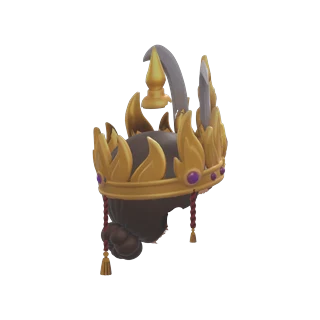
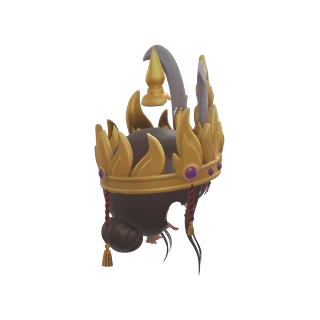
feat(art): 모자 아래 여자 머리를 앞머리 있는 쪽머리로 (#341)
- 올백 쪽머리는 이마가 다 드러나 정면에서 남자처럼 보여서, 시스루 앞머리와 얼굴 옆 머리를 넣은 쪽머리(i)로 다시 만듦
- split_head.py cut=: 티셔츠 깃 안쪽의 어두운 띠를 머리에서 뺌
- split_head.py brows=: 모델 눈썹이 몸 눈썹 위에 겹치지 않게 두개골 위 눈썹 면을 뺌
- 옷 파일 캐시 번호 rig=13

Changed region(s): [[0.2812, 0.1562, 0.7188, 0.875], [0.5312, 0.1875, 0.5625, 0.2188], [0.4375, 0.1875, 0.4688, 0.2188]]

diff --git a/frontend/src/world/art/outfitSources.ts b/frontend/src/world/art/outfitSources.ts
@@ -3,7 +3,7 @@ import type { GLTF } from 'three/addons/loaders/GLTFLoader.js'
 import { ParkAssetLoader } from './assetLoader'
 
 /** Outfit files are fetched when someone first wears one, not with the park: most visitors never need them. */
-export const outfitUrl = (name: string) => `/art/characters/outfits/${name}.glb?rig=12`
+export const outfitUrl = (name: string) => `/art/characters/outfits/${name}.glb?rig=13`
 
 const loaded = new Map<string, GLTF>()
 const requested = new Set<string>()

diff --git a/tools/character/split_head.py b/tools/character/split_head.py
@@ -1,5 +1,5 @@
 """Split a Tripo head part (hair and face skin came out as one part) by texel colour:
--- <parts.glb> <out.glb> part=1 [hair=90] [face=91] [dark=0.5] [smooth=4]
+-- <parts.glb> <out.glb> part=1 [hair=90] [face=91] [dark=0.5] [smooth=4] [min_island=300] [cut=x,y,z] [brows=zlo,zhi,xmax]
 Each face is hair when its mean texel brightness is under `dark`; then `smooth` passes of neighbour majority vote
 clean the edge. The hair becomes tripo_part_<hair>, the skin tripo_part_<face>; every other part is kept."""
 import bpy, bmesh, sys, os
@@ -24,6 +24,34 @@ nb = [[g.index for e in f.edges for g in e.link_faces if g is not f] for f in bm
 for _ in range(SMOOTH):
     hair = np.array([(hair[n].sum() * 2 > len(n)) if n and hair[n].sum() * 2 != len(n) else hair[i] for i, n in enumerate(nb)])
 bm.free()
+# cut=x,y,z: hair faces with |x| < x, y < y and z < z are not hair (the shirt collar's dark inside, when Tripo gave the
+# hair, the shirt and the skin as one part)
+if opt.get('cut'):
+    cx, cy, cz = (float(v) for v in opt['cut'].split(','))
+    mw = o.matrix_world
+    for i, p in enumerate(o.data.polygons):
+        c = mw @ p.center
+        if abs(c.x) < cx and c.y < cy and c.z < cz: hair[i] = False
+# brows=zlo,zhi,xmax: the model's own eyebrows are painted on the same surface as the forehead and came out as hair,
+# over the body's own brows. In that band, a front hair face with nothing behind it within 2 cm (looking into the head)
+# lies on the skull: a brow, dropped. The fringe hangs a few millimetres before the forehead, so it has.
+if opt.get('brows'):
+    from mathutils import Vector
+    from mathutils.bvhtree import BVHTree
+    zlo, zhi, xm = (float(v) for v in opt['brows'].split(','))
+    dg = bpy.context.evaluated_depsgraph_get(); allb = bmesh.new()
+    for x in bpy.data.objects:
+        if x.type == 'MESH':
+            t = bmesh.new(); t.from_mesh(x.data); t.transform(x.matrix_world)
+            tmp = bpy.data.meshes.new('t'); t.to_mesh(tmp); t.free(); allb.from_mesh(tmp); bpy.data.meshes.remove(tmp)
+    tree = BVHTree.FromBMesh(allb); allb.free()
+    mw = o.matrix_world; nbrow = 0
+    for i, p in enumerate(o.data.polygons):
+        if not hair[i]: continue
+        c = mw @ p.center; n = (mw.to_3x3() @ p.normal).normalized()
+        if not (zlo < c.z < zhi and abs(c.x) < xm and n.y < -0.3): continue
+        if tree.ray_cast(c + Vector((0, 0.0005, 0)), Vector((0, 1, 0)), 0.02)[0] is None: hair[i] = False; nbrow += 1
+    print('SPLIT', nbrow, 'brow faces dropped')
 print('SPLIT', PART, int(hair.sum()), 'hair faces,', int((~hair).sum()), 'skin faces')
 for name, keep in ((HAIR, True), (FACE, False)):
     c = o.copy(); c.data = o.data.copy(); bpy.context.scene.collection.objects.link(c)

diff --git a/docs/character-outfits.md b/docs/character-outfits.md
@@ -15,7 +15,7 @@
   - 그래서 새 옷은 **자기 한 벌을 입었을 때만** 맞으면 된다. 다른 상의·하의·신발과 섞어 입는 경우는 생기지 않는다.
   - 부위별로 섞어 입게 했을 때는 바지가 다른 상의를 뚫거나, 바지 없이 신발만 신으면 발목이 비는 문제가 옷마다 생겼다.
 - **캐릭터별 조각.** `item__HAIR__h__for_girl`처럼 `__for_man`/`__for_girl`이 붙은 조각은 그 캐릭터에게만 보인다(④-2).
-- **의상 문자.** 기준 빌드 안의 의상은 문자로 구분한다. 이미 쓴 문자는 `a`~`i`(남자 기본 `b`·`d`, 여자 머리 `e`, 장군 `g`, 갓·도포 `h`, 모자 아래 여자 쪽머리 `i`)이고, 새 옷은 `j`부터 쓴다.
+- **의상 문자.** 기준 빌드 안의 의상은 문자로 구분한다. 이미 쓴 문자는 `a`~`i`(남자 기본 `b`·`d`, 여자 머리 `e`, 장군 `g`, 갓·도포 `h`, 모자 아래 여자 앞머리 쪽머리 `i`)이고, 새 옷은 `j`부터 쓴다.
 - **몸 조각.** 의상에 가려지는 몸은 `body__TOPd_BOTTOMg`처럼 가리는 의상 이름이 붙은 조각으로 잘려 있다. 이 조각은 그 의상 중 하나라도 입으면 숨는다. 의상 조각 `item__BOTTOM__d__under_TOPb`는 `TOP b`를 함께 입으면 숨는다.
 - **게임 파일**(`frontend/public/art/characters/`):
   - `man.glb`, `girl.glb`: 공용 몸의 모든 조각 + 그 캐릭터의 기본 옷.
@@ -133,15 +133,17 @@
 
 - 조각 이름은 `item__HAIR__<문자>__for_man` / `item__HAIR__<문자>__for_girl`이다. 게임은 그 캐릭터에만 그린다(`characterLook.ts`).
 - 남자 머리카락은 기본 머리 `b`를 복사해 쓴다. Tripo 머리보다 깔끔하고 기본 모습과 머릿결이 같다.
-- 여자는 기본 머리 `e`(포니테일)를 쓰면 모자 아래에서 어색해서, 모자용 머리 `i`(가르마를 탄 낮은 쪽머리)를 따로 만들었다.
-  1. 공용 몸 T자 시트(`pose_sheet.py pose=t`)를 Gemini에 넣고, 몸·얼굴·배치는 그대로 두고 머리만 그리게 했다: 가운데 가르마, 머리에 붙게 빗어 넘긴 머리, 목덜미의 작은 쪽. 모자·장신구는 넣지 않는다.
+- 여자는 기본 머리 `e`(포니테일)를 쓰면 모자 아래에서 어색해서, 모자용 머리 `i`(시스루 앞머리, 얼굴 옆으로 내린 가는 머리, 낮은 쪽머리)를 따로 만들었다. 처음에는 가르마를 탄 올백 쪽머리로 했는데, 이마가 다 드러나 정면에서 남자처럼 보였다(user).
+  1. 공용 몸 T자 시트(`pose_sheet.py pose=t`)를 Gemini에 넣고, 몸·얼굴·배치는 그대로 두고 머리만 그리게 했다: 눈썹이 보이는 얇은 앞머리, 귀 앞으로 턱까지 내린 가는 머리, 나머지는 목덜미의 둥근 쪽. 정수리와 뒤는 머리에 붙게 해서 모자가 얹히게 한다. 모자·장신구는 넣지 않는다.
   2. Tripo 여러 면(정면 / Left = 오른쪽 아래 / Right = 오른쪽 위 / 뒤), Generate in Parts, Balanced, 4K 텍스처.
-  3. Tripo가 머리카락과 얼굴 피부를 한 부품으로 냈다. `split_head.py`가 텍스처 밝기로 나눈다(머리 `tripo_part_90`, 얼굴 `tripo_part_91`). 눈가의 어두운 선이 머리로 잡혀서, 2000면보다 작은 머리 조각은 지운다.
-  4. 머리만 기준 빌드에 맞춘다. 얼굴(`head_fit`)로 맞추니 크기 1.002배로 몸과 거의 같았다.
+  3. Tripo가 머리카락을 피부·티셔츠와 한 부품(`tripo_part_0`)으로 냈다. `split_head.py`가 텍스처 밝기로 나눈다(머리 `tripo_part_90`).
+     - `cut=0.1,0.0,0.645`: 목 앞의 티셔츠 깃 안쪽(어두운 띠)은 머리가 아니다.
+     - `brows=0.775,0.825,0.13`: 모델의 눈썹이 이마와 같은 면에 그려져 머리로 잡혔고, 몸의 눈썹 위에 겹쳐 두꺼워 보였다. 그 높이에서 뒤(머리 안쪽) 2 cm 안에 아무것도 없는 앞쪽 면은 두개골 위의 눈썹이라 지운다. 앞머리는 이마 몇 mm 앞에 떠 있어서 남는다. 띠를 넓히면(0.74~0.88) 앞머리 밑의 두피까지 지워져 앞머리 사이로 피부가 보였다.
+  4. 머리만 기준 빌드에 맞춘다(쪽 `tripo_part_7`, 턱 아래로 내린 머리끝 `11`·`12`). 얼굴 부품(`tripo_part_1`)으로 맞추니 크기 0.984배였다.
 
 ```bash
-"$B" -b --python tools/character/split_head.py -- girl_bun_parts.glb girl_bun_split.glb part=1 min_island=2000
-"$B" -b --python tools/character/fit_outfit.py -- shared_layers_h.glb girl_bun_split.glb shared_layers_hi.glb set=i s=1.065 head_fit=91 "map=HAIR:90,3"
+"$B" -b --python tools/character/split_head.py -- girl_bangs_parts.glb girl_bangs_split.glb part=0 min_island=300 cut=0.1,0.0,0.645 brows=0.775,0.825,0.13
+"$B" -b --python tools/character/fit_outfit.py -- shared_layers_h.glb girl_bangs_split.glb shared_layers_hi.glb set=i s=1.065 head_fit=1 "map=HAIR:90,7,11,12"
 ```
 
 - `i`는 모자 아래 머리의 원본일 뿐이라 아이템으로 팔지 않는다(옷 파일에도 넣지 않는다).
